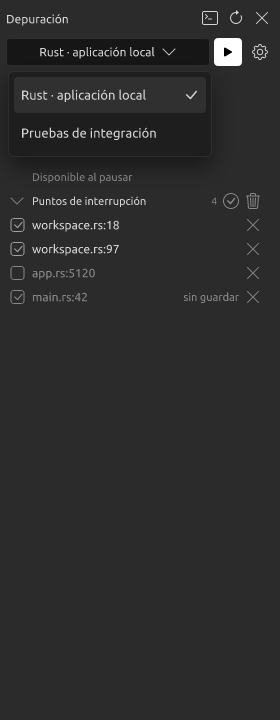
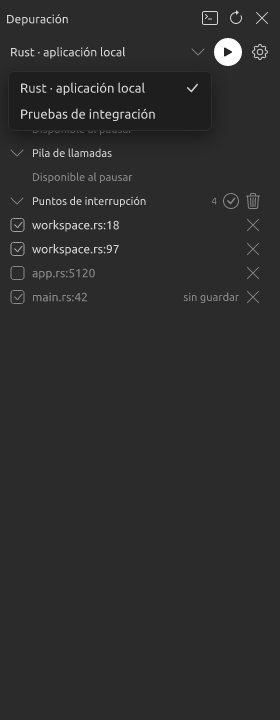
Debug launcher: the standard selector menu and the round primary start

diff --git a/apps/agents-window/src/debug_ui.rs b/apps/agents-window/src/debug_ui.rs
@@ -3,9 +3,10 @@
 use crate::theme;
 use openide_ui::{
     AlertDialog, Button, ButtonSize, ButtonVariant, Collapse, Component, ContextMenu,
-    ContextMenuEntry, ContextMenuItem, ControlSize, DropdownOption, Element, Empty, FontFamily,
+    ContextMenuEntry, ContextMenuItem, ControlSize, DropdownMenu, DropdownMenuItem, Element, Empty,
+    FontFamily,
     Icon, IconButton, ListRow, Notice, NoticeSizing, PanelHeader, PopoverPlacement, ScrollArea,
-    SectionHeader, Select, Separator, SidebarPanel, Spinner, Text, TextRole, Tooltip,
+    SectionHeader, Separator, SidebarPanel, Spinner, Text, TextRole, Tooltip,
     TooltipPlacement, TooltipSpec, TreeGuides, TreeRow,
 };
 use serde::{Deserialize, Serialize};
@@ -312,39 +313,49 @@ pub(crate) fn build_sidebar(state: &DebugView, width: f32, height: f32) -> Eleme
 /// Idle: which program, a primary start and the way to its configuration.
 fn start_row(state: &DebugView, width: f32) -> Element {
     let select_width = (width - START_HEIGHT * 2.0 - 8.0).max(0.0);
-    let select = Select::new(
+    // The same trigger and menu as every other selector in the app: a row
+    // with its chevron, and the standard menu with a check on the choice.
+    let trigger = ListRow::new(
         action(&state.scope, "configurations"),
         bounded(&state.configuration),
+        sidebar_actions(),
+    )
+    .trailing_icon(Icon::ChevronDown)
+    .enabled(!state.scope.is_empty())
+    .width(select_width)
+    .render();
+    let select = DropdownMenu::new(
+        trigger,
         state
             .configurations
             .iter()
             .take(16)
             .enumerate()
             .map(|(index, name)| {
-                DropdownOption::new(
+                DropdownMenuItem::new(
                     row_action(&state.scope, "configuration", index),
                     bounded(name),
                 )
                 .selected(index == state.selected_configuration)
+                .into()
             })
             .collect(),
-        state.configuration_menu,
+        state.configuration_menu && !state.scope.is_empty(),
         action(&state.scope, "dismiss_configurations"),
-        theme::component_palette(),
+        theme::menu_palette(),
     )
-    .menu_palette(theme::menu_palette())
+    .context_menu_style()
     .placement(PopoverPlacement::BottomStart)
-    .width(select_width)
-    .menu_width(select_width.max(200.0))
-    .enabled(!state.scope.is_empty())
+    .width(select_width.max(200.0))
     .render();
     let start = IconButton::new(
         action(&state.scope, "start"),
         Icon::PlayFill,
-        theme::action_palette(theme::BRAND, theme::PRIMARY_FOREGROUND),
+        crate::composer_ui::round_action_palette(state.controls.start && !state.scope.is_empty()),
     )
-    .variant(ButtonVariant::Solid)
+    .variant(ButtonVariant::Subtle)
     .size(ControlSize::Compact)
+    .round()
     .enabled(state.controls.start && !state.scope.is_empty())
     .tooltip_with(
         TooltipSpec::new("Iniciar depuración")

diff --git a/apps/agents-window/src/composer_ui.rs b/apps/agents-window/src/composer_ui.rs
@@ -1830,7 +1830,9 @@ fn connect_provider_action(width: f32) -> Element {
 
 /// The one shape of send and stop, wherever a composer or a message shows
 /// them: a light circle with a dark glyph. Disabled, it is a muted circle.
-fn round_action(id: &str, icon: Icon, size: ControlSize, enabled: bool) -> Element {
+/// The light circle of the app's one primary action in a bar: send, stop,
+/// start. Disabled, it recedes into the surface.
+pub(crate) fn round_action_palette(enabled: bool) -> openide_ui::ComponentPalette {
     let mut palette = theme::action_palette(Color::WHITE, PILL_SURFACE);
     palette.hover = Color::rgb(224, 224, 224);
     palette.selected = Color::rgb(204, 204, 204);
@@ -1838,6 +1840,11 @@ fn round_action(id: &str, icon: Icon, size: ControlSize, enabled: bool) -> Eleme
         palette.surface = theme::SELECTED;
         palette.muted = MUTED_INK;
     }
+    palette
+}
+
+fn round_action(id: &str, icon: Icon, size: ControlSize, enabled: bool) -> Element {
+    let palette = round_action_palette(enabled);
     IconButton::new(id, icon, palette)
         .variant(ButtonVariant::Subtle)
         .size(size)
